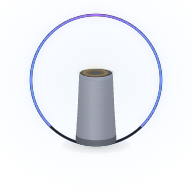
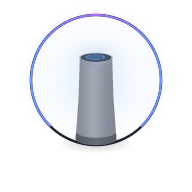
Update branding kit with final artwork

diff --git a/README.md b/README.md
@@ -100,7 +100,7 @@ See [docs/groups.md](docs/groups.md) for usage.
 ### LED Ring
 
 Control the 13-LED RGB light ring with smooth 30fps animations, all driven by the MCU. 
-Built-in presets — breathe, spin, pulse, volume arc, boot surge — or design your own custom frame sequences.
+Built-in presets — breathe, spin, pulse, volume arc, boot surge — or design your own custom frame sequences. Home Assistant has access to all animations for routines.
 
 ### Network
 
@@ -112,21 +112,18 @@ for secure remote access through [boringtun](https://github.com/cloudflare/borin
 ### Reliability
 
 A hardware watchdog prevents hangs — if Encore stops responding, the speaker
-reboots automatically. If Encore crashes three times at boot, the system falls
+reboots automatically. If Encore crashes even once at boot, the system falls
 back to the stable binary. You cannot brick the speaker by running
 experimental firmware. You can't even brick it by replacing the kernel.
 
-OTA updates through the web dashboard: upload a new binary, click flash
-and forget about it. New firmware comes up or the stable one loads after 3 crashes.
-
-Recovery from soft-brick is simple. Follow the initial flashing steps.
+**Just don't try to mess with the bootloader, it might not be safe**
 
 > By using this firmware and flashing it to your device, you acknowledge there
 > are risks and agree to the terms in [LEGAL.md](LEGAL.md).
 
 ---
 
-## Architecture
+## Encore's Architecture
 
 <p align="center">
   <picture>
@@ -136,8 +133,8 @@ Recovery from soft-brick is simple. Follow the initial flashing steps.
   </picture>
 </p>
 
-Encore is a single statically-linked Rust binary.
-It manages 13 async subsystems on a dual-core ARM Cortex-A7 with 512 MB of RAM.
+>Encore is a single statically-linked ARM-compiled Rust binary.
+It manages 13 async subsystems and runs efficiently on the Invoke's dual-core ARM Cortex-A7 with 512 MB of RAM. Average usage is around ~40mb and ~3% CPU combined usage across both cores at idle. While Spotify is playing at the highest quality available, CPU usage is ~20% between both cores. There is headroom for more subsystems.
 
 | Subsystem | Purpose | Auto-Restart |
 |-----------|---------|:---:|
@@ -223,7 +220,7 @@ make firmware
 # Build desktop app (Windows installer)
 make app
 
-# Build Android app (APK)
+# Build Android app (APK, requires additional deps)
 make app-android
 ```
 
@@ -254,7 +251,7 @@ troubleshooting.
 
 ### First Boot
 
-1. On your phone or laptop, connect to the `Invoke-XXXX` WiFi network
+1. On your phone or computer, connect to the `Invoke-XXXX` WiFi network
    (password: `ridiculous`) — XXXX is unique to your device
 2. A captive portal opens automatically — or navigate to `http://192.168.43.1`
 3. Enter your home WiFi credentials in the setup wizard
